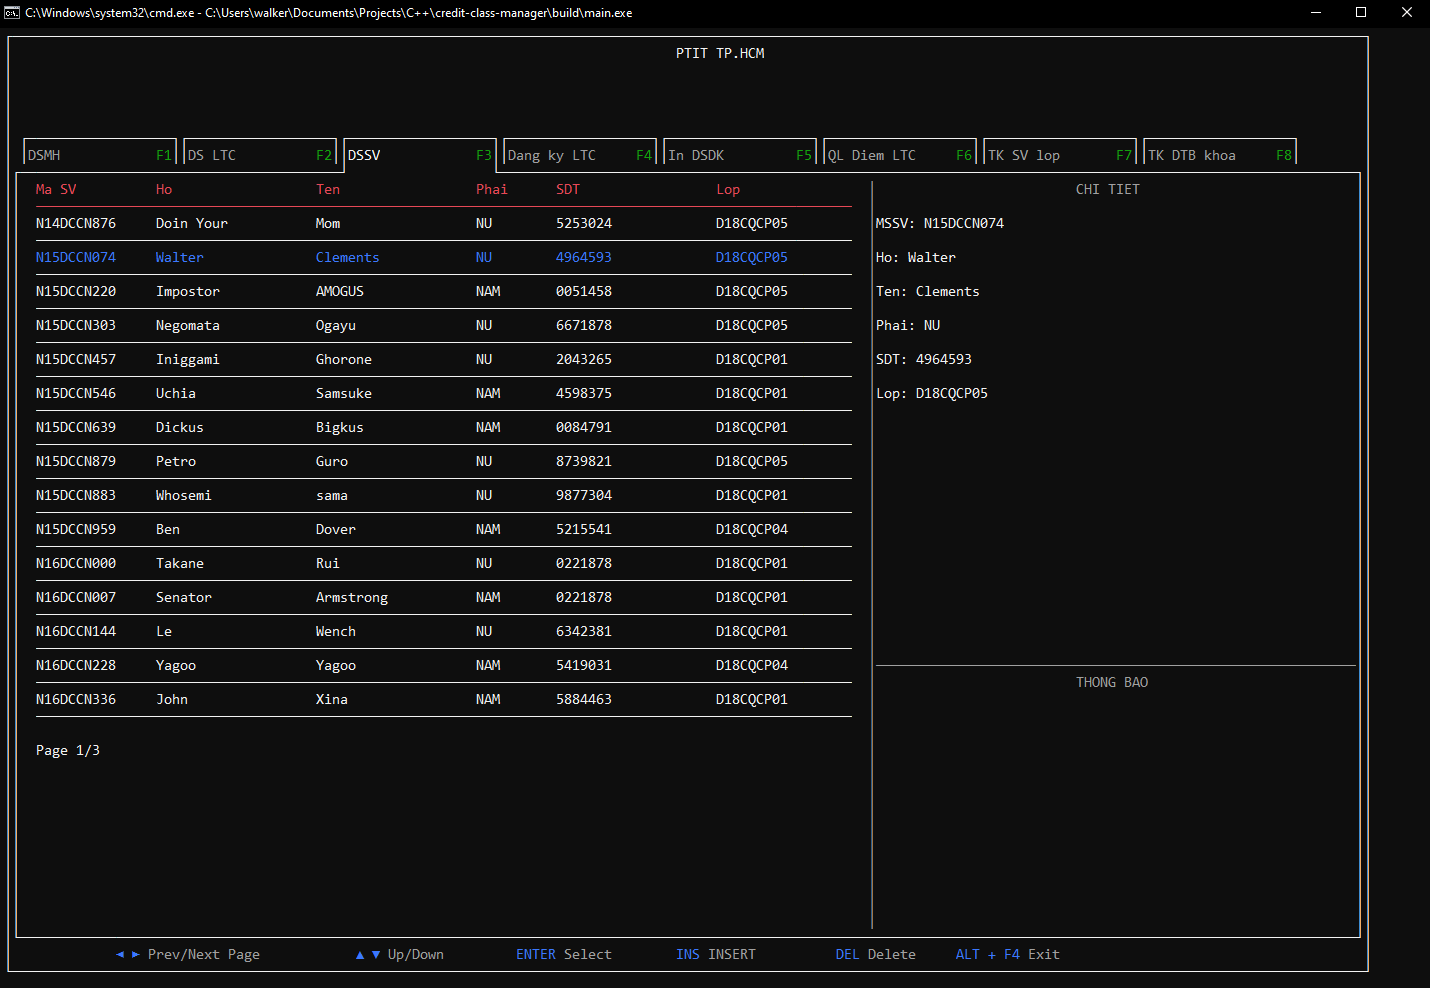
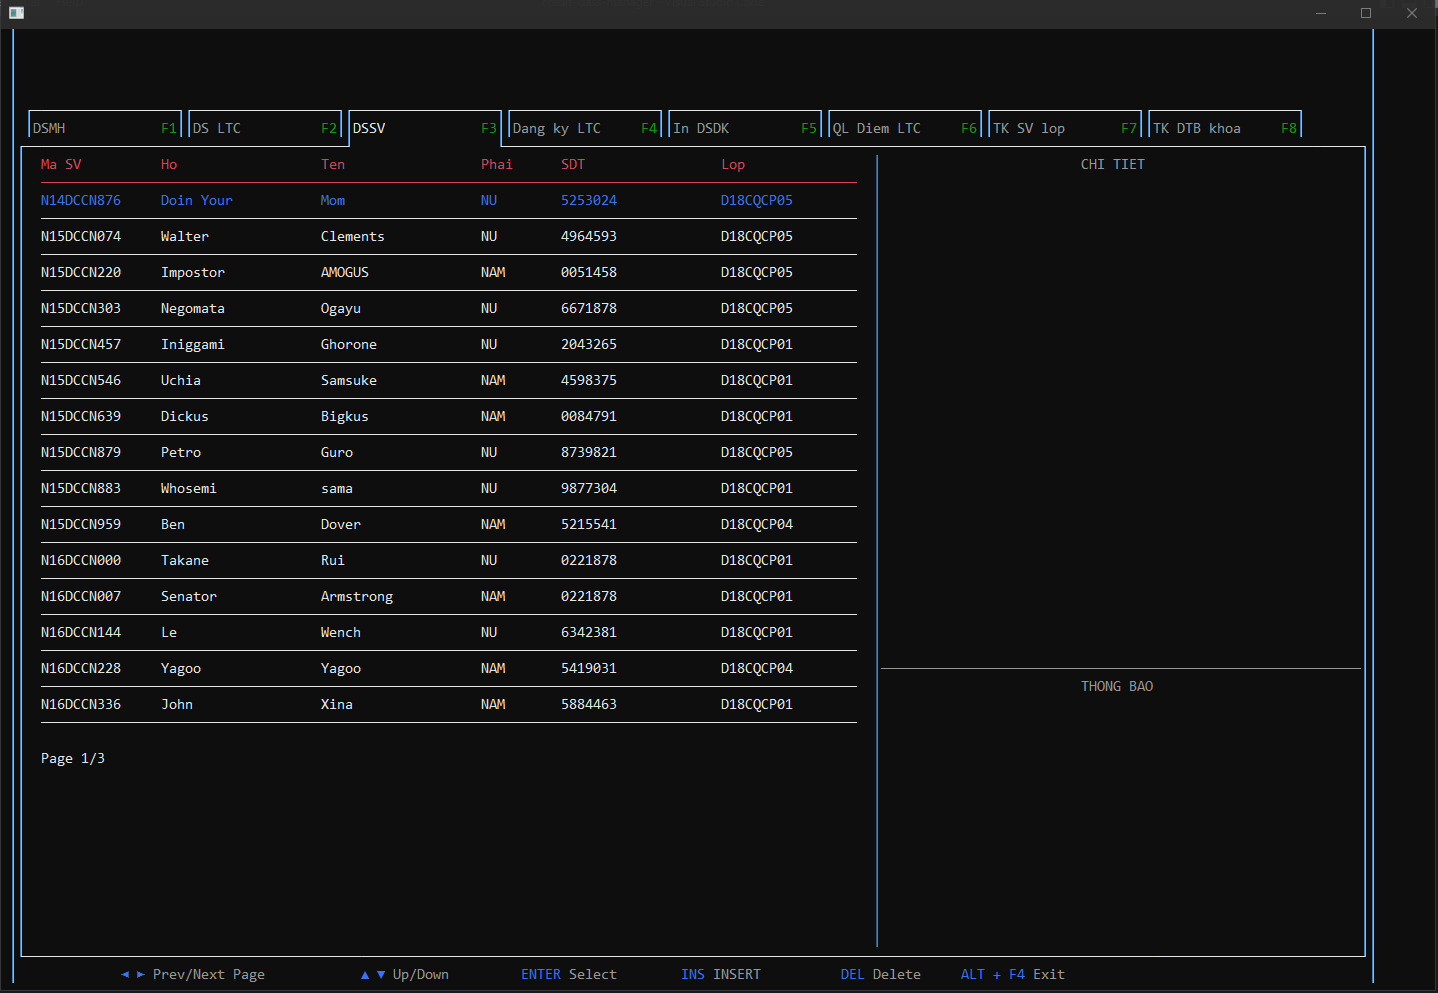
Add download link and update images

diff --git a/README.md b/README.md
@@ -4,8 +4,12 @@
 
 <br>
 
+## Download
+[Tải demo](https://github.com/WalterClementsJr/credit-class-manager/releases) và đọc hướng dẫn trong README.txt
+
+<br>
+
 ## Build
----
 ```
 cd $project_path/
 ```
@@ -19,7 +23,6 @@ g++ -Wall $project_path/main/main.cpp -I $project_path/lib -o $project_path/buil
 <br>
 
 ## Run
----
 
 ```
 cd $project_path/
@@ -35,8 +38,9 @@ Project được viết trên Visual Studio Code và build bằng MinGW. Nếu m
 - Đọc [hướng dẫn sử dụng](https://code.visualstudio.com/docs/languages/cpp)
 - [Tải MinGW](https://sourceforge.net/projects/mingw-w64/files/mingw-w64/) (nếu chưa có)
 
+<br>
+
 ## Demo
----
 ![](meta/cap_list_subjects.png)
 ![](meta/cap_list_all_students.png)
 ![](meta/cap_list_credit_class.png)
